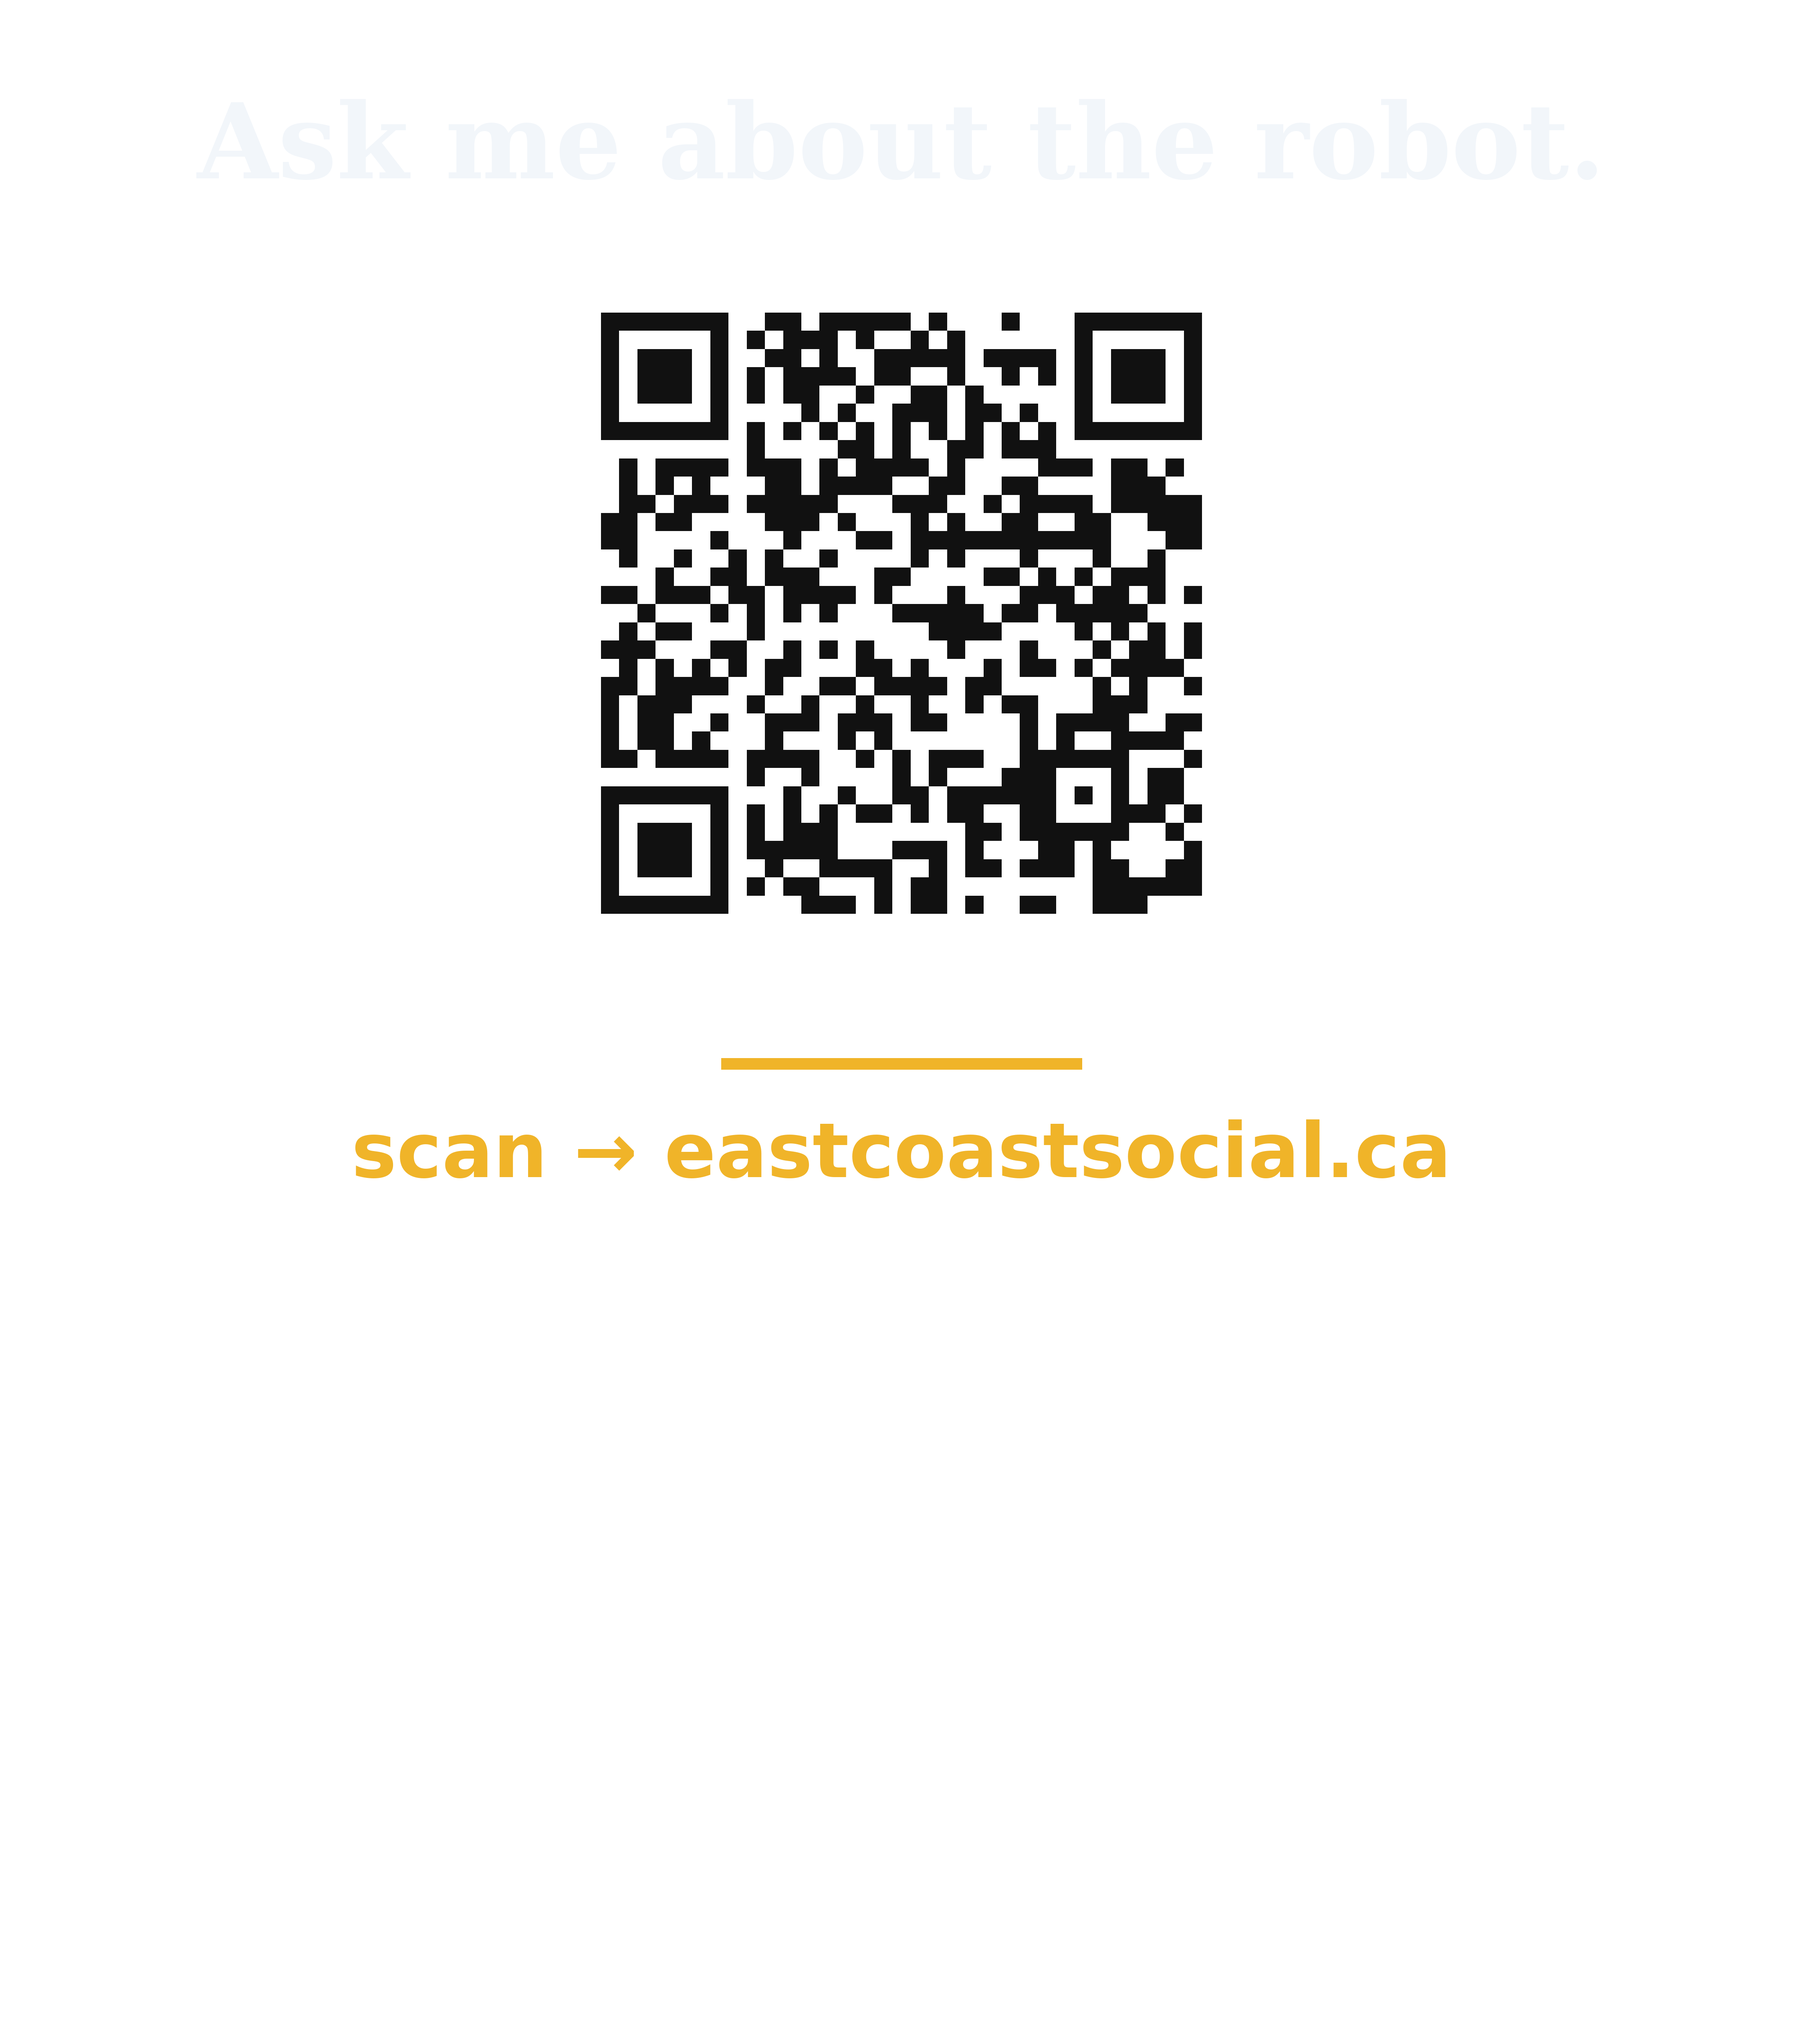
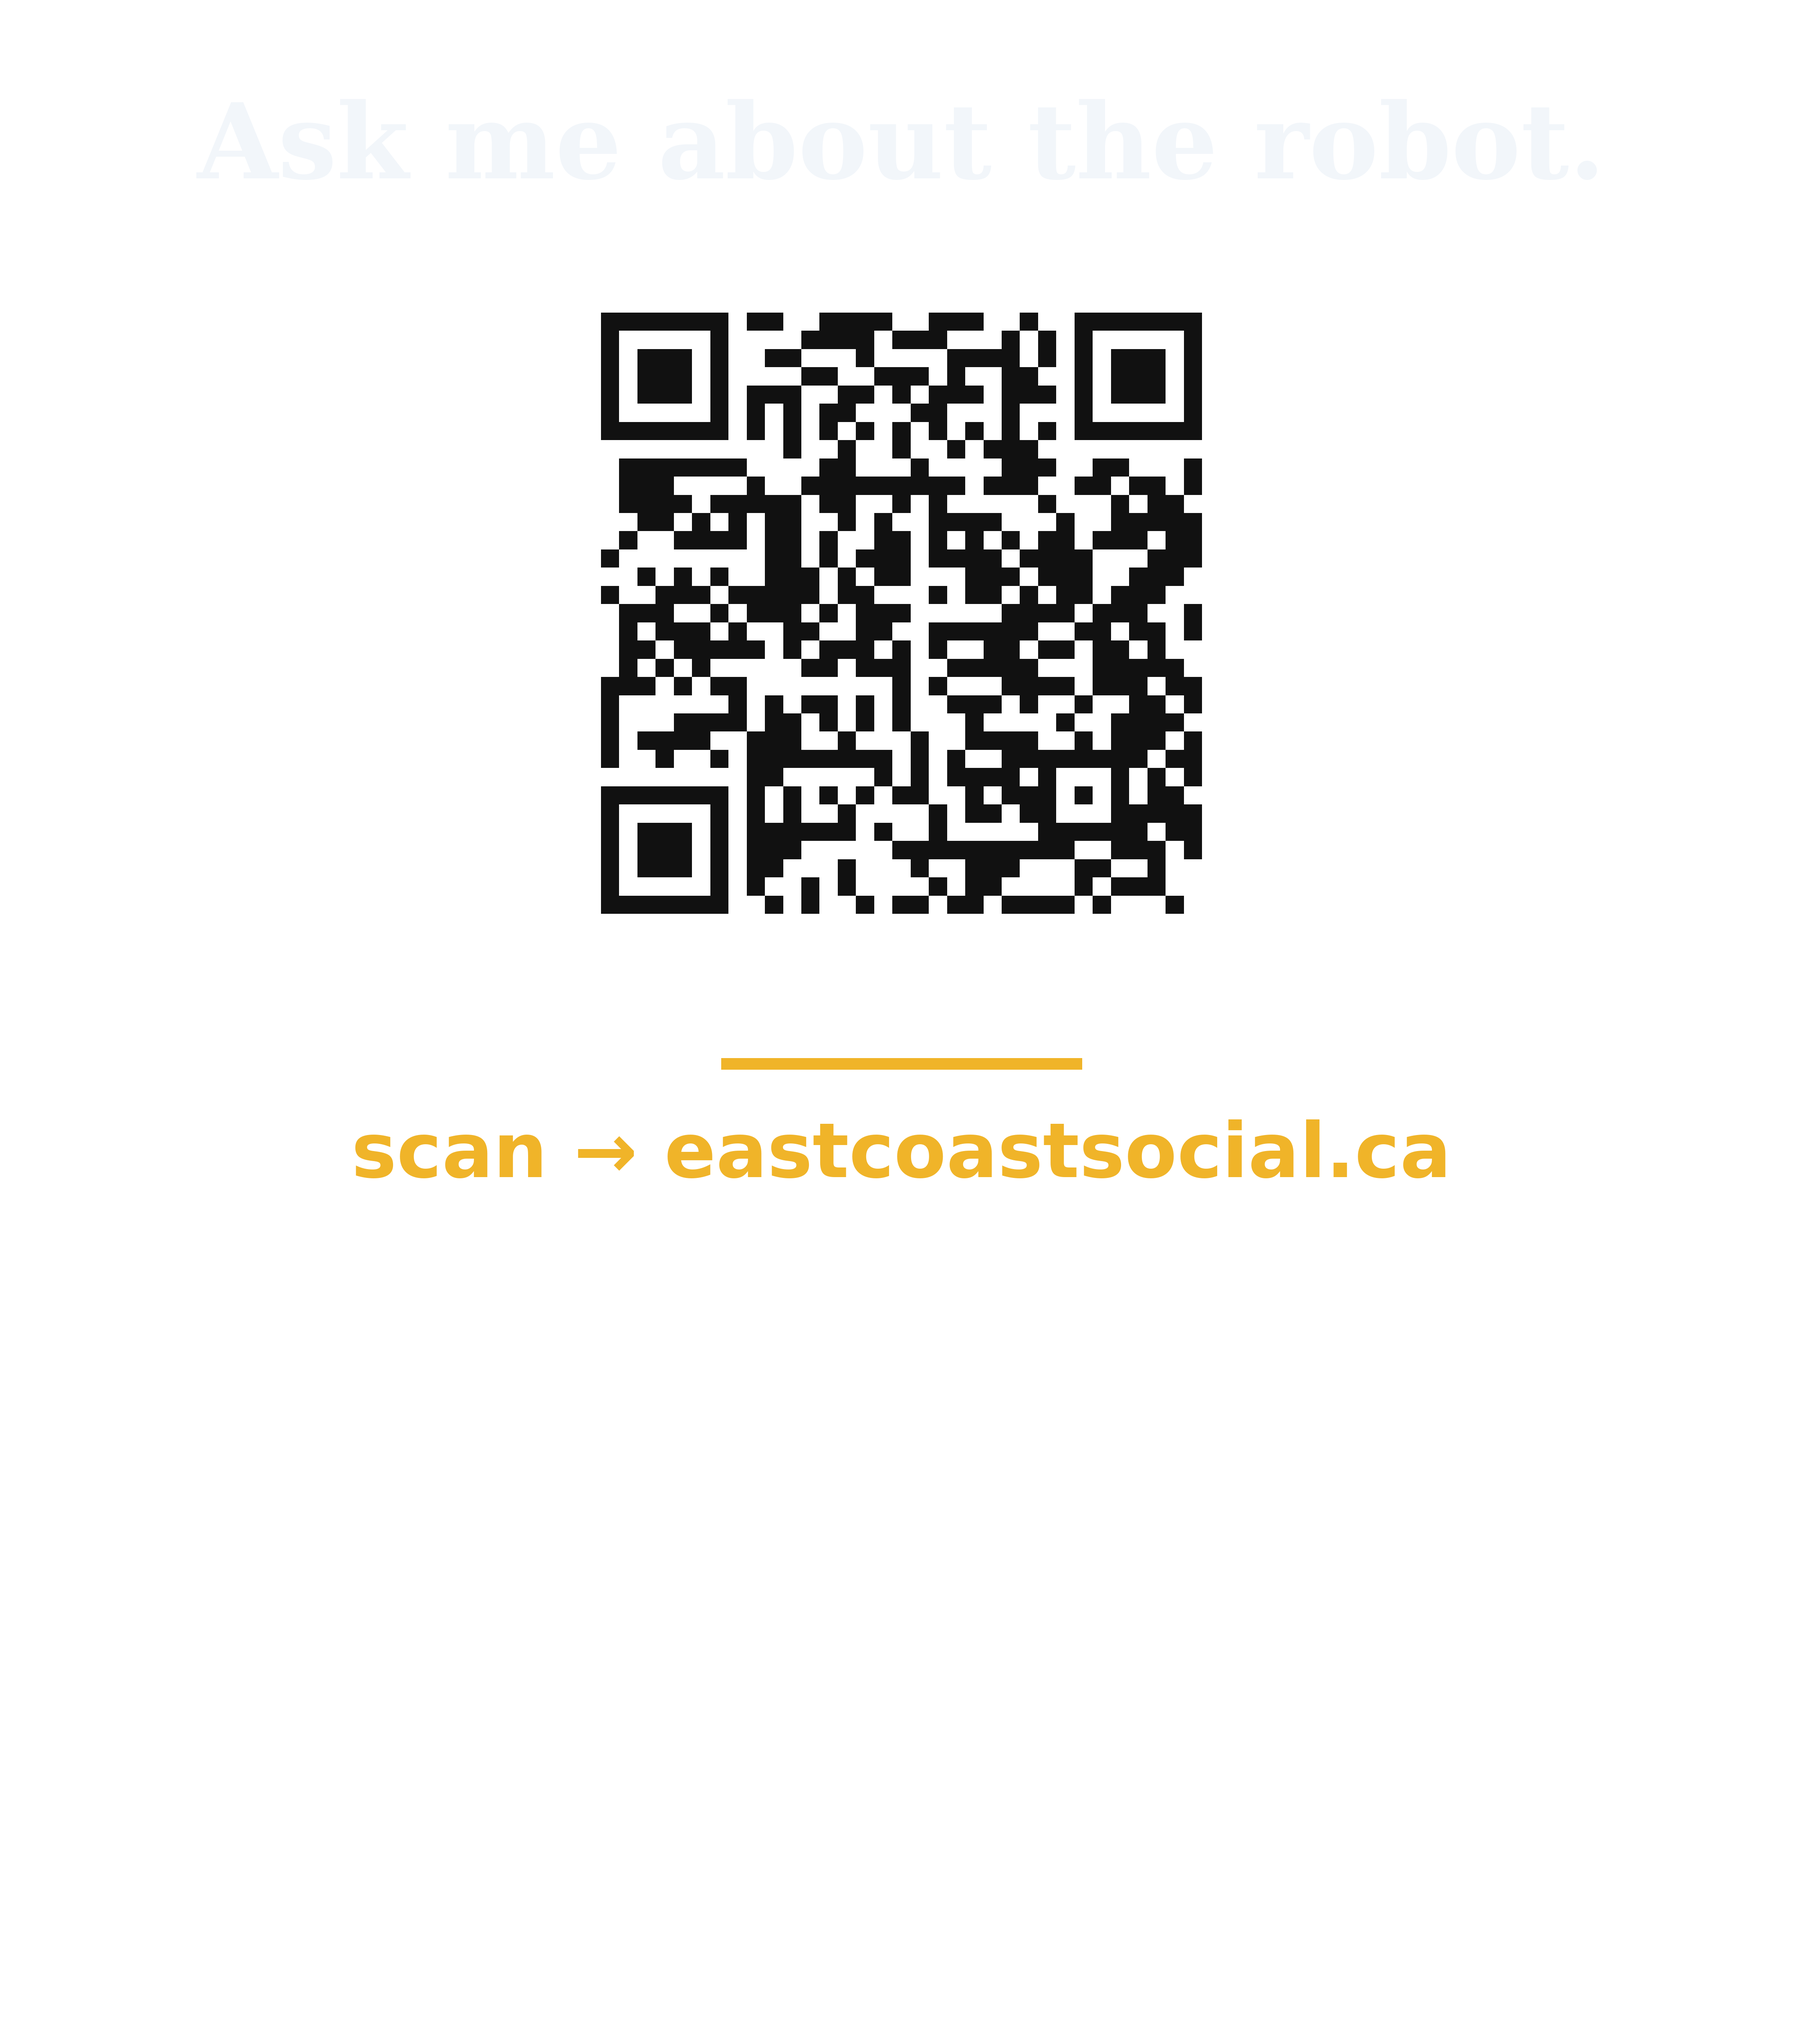
Council wave 2: windowed channel report + fb/gbp/card/x-qr tags, proof-feed backup crons + gate, staleness watchdog, per-prospect sample-pack QR (ref=sample-<slug> + registry), merch QR retargeted past the query-stripping forward

Changed region(s): [[0.3111, 0.1559, 0.6844, 0.4676]]

diff --git a/traffic_report.py b/traffic_report.py
@@ -20,6 +20,7 @@ import os
 import sys
 import urllib.parse
 import urllib.request
+from pathlib import Path
 
 SITE = "https://theycallmemattyb.goatcounter.com"
 
@@ -66,15 +67,77 @@ def public_path_count(path: str, start: dt.date | None = None) -> int:
 # it is GoatCounter's own referrer-override parameter.
 REF_CHANNELS = [
     ("x", "X posts"),
+    ("x-qr", "X QR replies"),
     ("pin", "Pinterest product pins"),
     ("pin-ecs", "Pinterest ECS pins"),
     ("ecs", "ECS daily caption"),
+    ("fb", "Facebook posts/groups"),
+    ("fb-ad", "Moncton group ad slot"),
+    ("gbp", "Google Business Profile"),
     ("tt", "TikTok product QR"),
     ("tt-ecs", "TikTok agent QR"),
-    ("print", "Print QR (flyers/cards)"),
-    ("sample", "Sample-pack QR"),
+    ("print", "Print QR (flyers)"),
+    ("card", "Business cards"),
+    ("sample", "Sample-pack QR (generic)"),
     ("merch", "Merch QR (the sweater)"),
 ]
+
+# Own-visit exclusion took effect Aug 12 (laptop toggled out of GoatCounter);
+# numbers before this date include Matthew's own browsing. Channel windows
+# never reach back past it, so the phone ping stays decision-grade.
+CLEAN_BASELINE = dt.date(2026, 8, 12)
+
+
+def window_start(today: dt.date) -> dt.date:
+    """Rolling 7-day window, clipped so it never includes pre-baseline days."""
+    return max(today - dt.timedelta(days=7), CLEAN_BASELINE)
+
+
+def sample_slugs() -> list[str]:
+    """Per-prospect sample-pack slugs (ref-sample-<slug> events), from the
+    registry sample_week.py maintains. Missing registry = no packs yet."""
+    import json as _json
+    reg = (Path(__file__).parent / "marketing" / "east-coast-social"
+           / "engine" / "samples" / "registry.json")
+    try:
+        return list(_json.loads(reg.read_text(encoding="utf-8")))
+    except (OSError, ValueError):
+        return []
+
+
+def staleness_alerts(today: dt.date) -> list[str]:
+    """Watchdog for the two assets that must never silently rot: the store
+    catalog (refreshes every 3 days) and the ECS proof feed (daily post)."""
+    import json as _json
+    import subprocess
+    alerts = []
+    root = Path(__file__).parent
+
+    try:
+        entries = _json.loads((root / "automation" / "feed" / "index.json")
+                              .read_text(encoding="utf-8"))
+        newest = dt.date.fromisoformat(entries[0]["date"])
+        age = (today - newest).days
+        if age >= 2:
+            alerts.append(f"ECS proof feed stale: newest post {newest} ({age} days old)")
+    except (OSError, ValueError, KeyError, IndexError) as exc:
+        alerts.append(f"ECS proof feed unreadable: {exc}")
+
+    try:
+        out = subprocess.run(
+            ["git", "log", "-1", "--format=%ct", "--", "products.json"],
+            cwd=root, capture_output=True, text=True, timeout=30)
+        ts = int(out.stdout.strip() or 0)
+        if ts:
+            age_days = (dt.datetime.now(dt.timezone.utc).timestamp() - ts) / 86400
+            if age_days > 4:
+                alerts.append(f"Catalog stale: products.json last refreshed {age_days:.1f} days ago")
+        # empty ts = shallow checkout without the file's history; stay quiet
+        # rather than cry wolf (the workflow fetches enough depth normally)
+    except (OSError, ValueError, subprocess.SubprocessError):
+        pass
+
+    return alerts
 
 # Contact-tap events fired by the automation pages (sms:/tel:/mailto: links).
 # At this traffic level a tap IS the conversion — report them alongside views.
@@ -124,14 +187,28 @@ def main() -> None:
 
         msg = f"{today} visitors so far today · {week} this week"
         busy = today
-    # channel attribution — always from the public counters, token or not
-    rows = channel_breakdown()
-    if any(n for _, _, n in rows):
-        print("channels (all-time):  " + " · ".join(f"{tag}={n}" for tag, _, n in rows if n))
-        top_tag, top_label, top_n = rows[0]
-        msg += f" · top channel: {top_label} ({top_n})"
+    # channel attribution — always from the public counters, token or not.
+    # Windowed to the last 7 clean days so the ping reflects what's pulling
+    # NOW, not inflated all-time history.
+    wstart = window_start(atlantic_now.date())
+    rows = channel_breakdown(start=wstart)
+    rows_all = channel_breakdown()
+    if any(n for _, _, n in rows_all):
+        print(f"channels (since {wstart}): " + (" · ".join(f"{tag}={n}" for tag, _, n in rows if n) or "none"))
+        print("channels (all-time):  " + " · ".join(f"{tag}={n}" for tag, _, n in rows_all if n))
     else:
-        print("channels: no ref- events recorded yet (tracking just added, or no tagged visits)")
+        print("channels: no ref- events recorded yet (no tagged visits)")
+    if any(n for _, _, n in rows):
+        top_tag, top_label, top_n = rows[0]
+        msg += f" · top channel 7d: {top_label} ({top_n})"
+
+    # per-prospect sample packs — a scan is the highest-intent signal there is
+    scans = [(slug, public_path_count(f"ref-sample-{slug}", start=wstart))
+             for slug in sample_slugs()]
+    hot = [(slug, n) for slug, n in scans if n]
+    if hot:
+        print("sample-pack scans (7d): " + " · ".join(f"{s}={n}" for s, n in hot))
+        msg += " · 📦 pack scanned: " + ", ".join(s for s, _ in hot)
 
     # contact taps — the ECS conversion signal. A tap today belongs in the ping.
     taps_today = [(t, lbl, public_path_count(t, start=atlantic_now.date())) for t, lbl in CTA_EVENTS]
@@ -151,6 +228,20 @@ def main() -> None:
     with urllib.request.urlopen(req, timeout=30) as resp:
         resp.read()
     print(f"sent: {msg}")
+
+    # watchdog: separate, loud ping only when a proof asset has gone stale
+    alerts = staleness_alerts(atlantic_now.date())
+    if alerts:
+        body = "\n".join(alerts)
+        print("WATCHDOG: " + " | ".join(alerts))
+        wreq = urllib.request.Request(
+            f"https://ntfy.sh/{topic}",
+            data=body.encode(),
+            headers={"Title": "Engine watchdog - something is stale",
+                     "Tags": "warning", "Priority": "high"},
+        )
+        with urllib.request.urlopen(wreq, timeout=30) as resp:
+            resp.read()
 
 
 if __name__ == "__main__":

diff --git a/marketing/east-coast-social/engine/sample_week.py b/marketing/east-coast-social/engine/sample_week.py
@@ -89,6 +89,29 @@ def slugify(name):
     return re.sub(r"[^a-z0-9]+", "-", name.lower()).strip("-")
 
 
+def ref_tag(slug):
+    """Per-prospect attribution tag. The site's ref regex caps tags at 24
+    chars; 'sample-' takes 7, so the slug part gets 17."""
+    return "sample-" + slug[:17].strip("-")
+
+
+def tracked_link(slug):
+    return f"findhotstuff.com/automation/?ref={ref_tag(slug)}"
+
+
+def register_slug(slug):
+    """Keep samples/registry.json current so traffic_report.py can report
+    ref-sample-<slug> scans by name. A scan = the hottest signal we have."""
+    reg = SAMPLES / "registry.json"
+    try:
+        slugs = set(json.loads(reg.read_text(encoding="utf-8")))
+    except (OSError, ValueError):
+        slugs = set()
+    slugs.add(slug[:17].strip("-"))
+    SAMPLES.mkdir(parents=True, exist_ok=True)
+    reg.write_text(json.dumps(sorted(slugs), indent=1), encoding="utf-8")
+
+
 def voice(profile):
     return VOICE.get(profile.get("category", "*"), VOICE["*"])
 
@@ -399,7 +422,7 @@ def write_captions(p, out):
         lines += [f"## Day {i} — {day} (day-{i}.png)",
                   f"**Caption:** {caption}", ""]
     lines += ["---", "",
-              "Built by East Coast Social — findhotstuff.com/automation/?ref=sample",
+              f"Built by East Coast Social — {tracked_link(p['slug'])}",
               "", "Your page posts every day. You approve the style once."]
     (out / "captions.md").write_text("\n".join(lines), encoding="utf-8")
 
@@ -434,10 +457,28 @@ def contact_sheet(p, out, paths):
 
     d.ellipse((gap, 54, gap + 34, 88), fill=accent)
     d.text((gap + 52, 48), p["name"].upper(), font=_font(46, bold=True), fill=accent)
-    d.text((gap, 116), "One week of posts — already built for you.",
-           font=_font(36, serif=True), fill=rgb(p.get("ink", "#f4f6fa")))
+    d.text((gap, 118), "One week of posts — already built for you.",
+           font=_font(31, serif=True), fill=rgb(p.get("ink", "#f4f6fa")))
     d.text((gap, 164), "East Coast Social · findhotstuff.com/automation",
            font=_font(28), fill=mix(rgb(p["bg"]), accent, 0.7))
+
+    # per-prospect QR: when THIS sheet gets scanned, the traffic ping says
+    # this prospect's name — the highest-intent signal on the board
+    try:
+        import io as _io
+        import segno
+        qs = 150
+        buf = _io.BytesIO()
+        segno.make(f"https://{tracked_link(p['slug'])}", error="m").save(
+            buf, kind="png", scale=10, border=1, dark="#111111", light="#ffffff")
+        qr = Image.open(buf).convert("RGB").resize((qs, qs), Image.NEAREST)
+        pad = 12
+        qx = W - gap - qs - pad * 2
+        d.rounded_rectangle((qx, 28, qx + qs + pad * 2, 28 + qs + pad * 2),
+                            radius=14, fill="#ffffff")
+        sheet.paste(qr, (qx + pad, 28 + pad))
+    except Exception as exc:  # noqa: BLE001 - a missing QR lib never blocks a pack
+        print(f"  (QR skipped: {exc})")
 
     for i, path in enumerate(paths):
         card = Image.open(path).resize((thumb, thumb), Image.LANCZOS)
@@ -523,7 +564,8 @@ def render(profile_path):
         print(f"  day-{i}.png  {device.__name__.replace('card_', '')}")
     write_captions(p, out)
     contact_sheet(p, out, paths)
-    print(f"captions.md + contact-sheet.png -> {out}")
+    register_slug(p["slug"])
+    print(f"captions.md + contact-sheet.png -> {out}  (ref tag: {ref_tag(p['slug'])})")
 
     todo = missing_fields(p)
     if todo:

diff --git a/marketing/east-coast-social/make_merch_art.py b/marketing/east-coast-social/make_merch_art.py
@@ -26,7 +26,9 @@ LIGHT = "#f2f6fa"
 MIST = "#a8bccf"
 NAVY = "#0d1f33"
 W, H = 4500, 5100                      # Printify DTG max print area @300dpi
-QR_URL = "https://eastcoastsocial.ca/?ref=merch"
+# direct domain, not eastcoastsocial.ca: the forward strips query strings,
+# which would silently untag every sweater scan
+QR_URL = "https://findhotstuff.com/automation/?ref=merch"
 
 
 def logo_disc(size):
